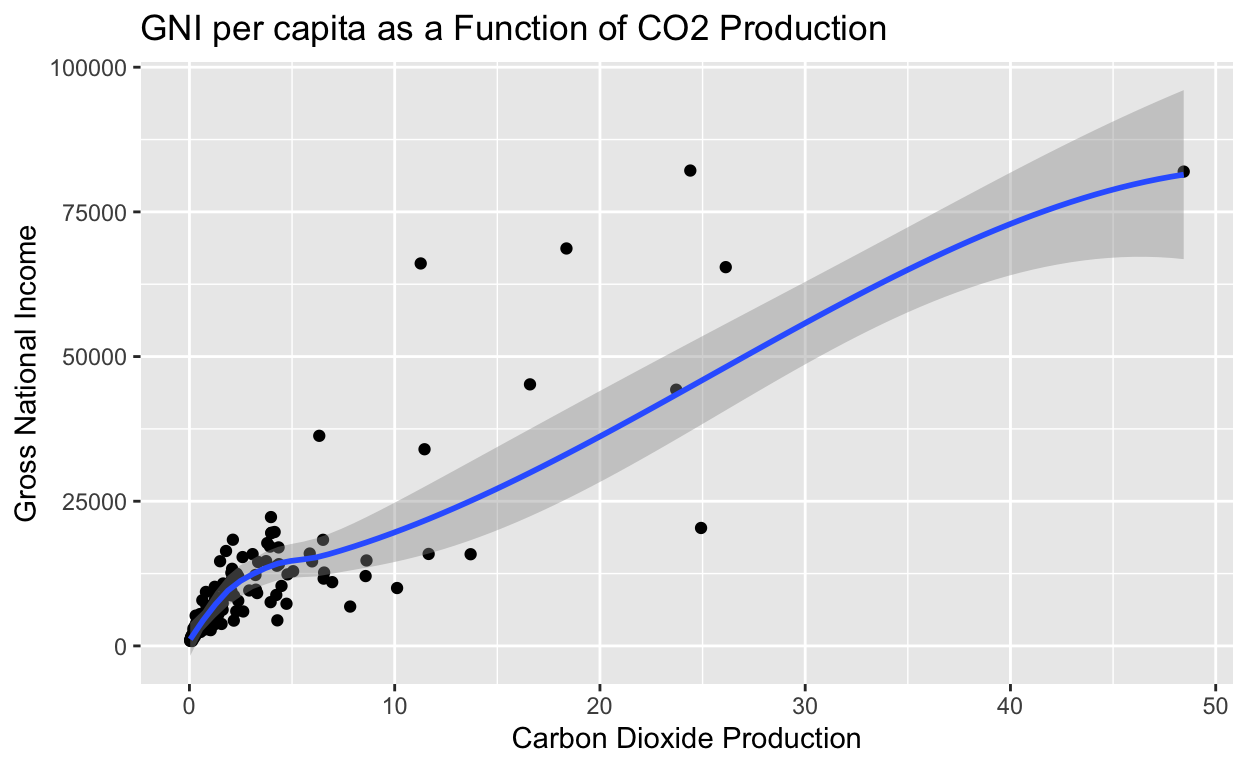
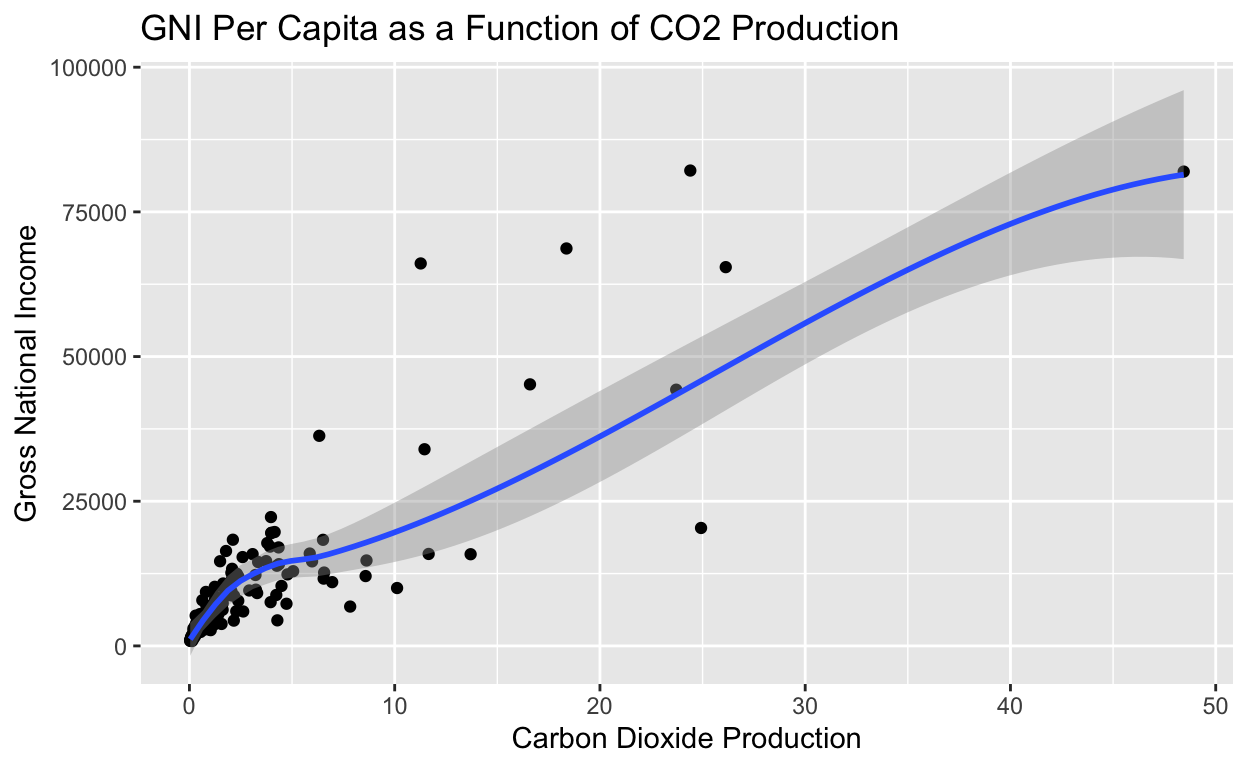
Milestone 4

Changed region(s): [[0.1562, 0.0, 0.7188, 0.0625]]

diff --git a/index.html b/index.html
@@ -115,7 +115,7 @@ code span.wa { color: #5e5e5e; font-style: italic; } /* Warning */
   <!--/radix_placeholder_rmarkdown_metadata-->
   
   <script type="text/json" id="radix-resource-manifest">
-  {"type":"character","attributes":{},"value":["index_files/anchor-4.2.2/anchor.min.js","index_files/bowser-1.9.3/bowser.min.js","index_files/distill-2.2.21/template.v2.js","index_files/figure-html5/unnamed-chunk-2-1.png","index_files/header-attrs-2.17/header-attrs.js","index_files/header-attrs-2.24/header-attrs.js","index_files/jquery-3.6.0/jquery-3.6.0.js","index_files/jquery-3.6.0/jquery-3.6.0.min.js","index_files/jquery-3.6.0/jquery-3.6.0.min.map","index_files/popper-2.6.0/popper.min.js","index_files/tippy-6.2.7/tippy-bundle.umd.min.js","index_files/tippy-6.2.7/tippy-light-border.css","index_files/tippy-6.2.7/tippy.css","index_files/tippy-6.2.7/tippy.umd.min.js","index_files/webcomponents-2.0.0/webcomponents.js"]}
+  {"type":"character","attributes":{},"value":["index_files/anchor-4.2.2/anchor.min.js","index_files/bowser-1.9.3/bowser.min.js","index_files/distill-2.2.21/template.v2.js","index_files/figure-html5/unnamed-chunk-2-1.png","index_files/figure-html5/unnamed-chunk-3-1.png","index_files/figure-html5/unnamed-chunk-3-2.png","index_files/header-attrs-2.17/header-attrs.js","index_files/header-attrs-2.24/header-attrs.js","index_files/jquery-3.6.0/jquery-3.6.0.js","index_files/jquery-3.6.0/jquery-3.6.0.min.js","index_files/jquery-3.6.0/jquery-3.6.0.min.map","index_files/popper-2.6.0/popper.min.js","index_files/tippy-6.2.7/tippy-bundle.umd.min.js","index_files/tippy-6.2.7/tippy-light-border.css","index_files/tippy-6.2.7/tippy.css","index_files/tippy-6.2.7/tippy.umd.min.js","index_files/webcomponents-2.0.0/webcomponents.js"]}
   </script>
   <!--radix_placeholder_navigation_in_header-->
   <!--/radix_placeholder_navigation_in_header-->
@@ -1534,7 +1534,7 @@ code span.wa { color: #5e5e5e; font-style: italic; } /* Warning */
 <pre class="sourceCode r"><code class="sourceCode r"><span><span class='va'>co2_GNI</span> <span class='op'>&lt;-</span> <span class='va'>co2_production</span> <span class='op'>|&gt;</span></span>
 <span>  <span class='fu'><a href='https://dplyr.tidyverse.org/reference/mutate-joins.html'>inner_join</a></span><span class='op'>(</span><span class='va'>GNI_PerCapital</span><span class='op'>)</span></span>
 <span></span>
-<span><span class='va'>co2_GNI</span> <span class='op'>|&gt;</span></span>
+<span><span class='va'>co2_GNI</span> <span class='op'>&lt;-</span> <span class='va'>co2_GNI</span> <span class='op'>|&gt;</span></span>
 <span>  <span class='fu'><a href='https://tidyr.tidyverse.org/reference/pivot_longer.html'>pivot_longer</a></span><span class='op'>(</span></span>
 <span>    cols <span class='op'>=</span> <span class='va'>co2_prod_1990</span><span class='op'>:</span><span class='va'>co2_prod_2021</span>,</span>
 <span>    names_to <span class='op'>=</span> <span class='st'>"co2_peryear"</span>,</span>
@@ -1544,25 +1544,85 @@ code span.wa { color: #5e5e5e; font-style: italic; } /* Warning */
 <span>    cols <span class='op'>=</span> <span class='va'>gnipc_1990</span><span class='op'>:</span><span class='va'>gnipc_2021</span>,</span>
 <span>    names_to <span class='op'>=</span> <span class='st'>"gnipc_peryear"</span>,</span>
 <span>    values_to <span class='op'>=</span> <span class='st'>"gnipc"</span></span>
-<span>  <span class='op'>)</span> <span class='op'>|&gt;</span></span>
+<span>  <span class='op'>)</span></span>
+<span><span class='va'>co2_GNI</span></span></code></pre>
+</div>
+<pre><code># A tibble: 210,944 × 9
+   ISO3  Country     hdicode region hdi_rank_2021 co2_peryear co2_prod
+   &lt;chr&gt; &lt;chr&gt;       &lt;chr&gt;   &lt;chr&gt;          &lt;dbl&gt; &lt;chr&gt;          &lt;dbl&gt;
+ 1 AFG   Afghanistan Low     SA               180 co2_prod_1…    0.210
+ 2 AFG   Afghanistan Low     SA               180 co2_prod_1…    0.210
+ 3 AFG   Afghanistan Low     SA               180 co2_prod_1…    0.210
+ 4 AFG   Afghanistan Low     SA               180 co2_prod_1…    0.210
+ 5 AFG   Afghanistan Low     SA               180 co2_prod_1…    0.210
+ 6 AFG   Afghanistan Low     SA               180 co2_prod_1…    0.210
+ 7 AFG   Afghanistan Low     SA               180 co2_prod_1…    0.210
+ 8 AFG   Afghanistan Low     SA               180 co2_prod_1…    0.210
+ 9 AFG   Afghanistan Low     SA               180 co2_prod_1…    0.210
+10 AFG   Afghanistan Low     SA               180 co2_prod_1…    0.210
+# ℹ 210,934 more rows
+# ℹ 2 more variables: gnipc_peryear &lt;chr&gt;, gnipc &lt;dbl&gt;</code></pre>
+<div class="sourceCode">
+<pre class="sourceCode r"><code class="sourceCode r"><span><span class='va'>co2_GNI</span> <span class='op'>|&gt;</span></span>
 <span>  <span class='fu'><a href='https://rdrr.io/r/stats/na.fail.html'>na.omit</a></span><span class='op'>(</span><span class='op'>)</span> <span class='op'>|&gt;</span></span>
 <span>  <span class='fu'><a href='https://dplyr.tidyverse.org/reference/group_by.html'>group_by</a></span><span class='op'>(</span><span class='va'>Country</span><span class='op'>)</span> <span class='op'>|&gt;</span></span>
 <span>  <span class='fu'><a href='https://dplyr.tidyverse.org/reference/summarise.html'>summarize</a></span><span class='op'>(</span></span>
 <span>    avg_co2 <span class='op'>=</span> <span class='fu'><a href='https://rdrr.io/r/base/mean.html'>mean</a></span><span class='op'>(</span><span class='va'>co2_prod</span><span class='op'>)</span>,</span>
 <span>    avg_gnipc <span class='op'>=</span> <span class='fu'><a href='https://rdrr.io/r/base/mean.html'>mean</a></span><span class='op'>(</span><span class='va'>gnipc</span><span class='op'>)</span></span>
-<span>        <span class='op'>)</span> <span class='op'>|&gt;</span></span>
+<span>  <span class='op'>)</span> <span class='op'>|&gt;</span></span>
 <span>  <span class='fu'><a href='https://ggplot2.tidyverse.org/reference/ggplot.html'>ggplot</a></span><span class='op'>(</span><span class='fu'><a href='https://ggplot2.tidyverse.org/reference/aes.html'>aes</a></span><span class='op'>(</span>x <span class='op'>=</span> <span class='va'>avg_co2</span>, y <span class='op'>=</span> <span class='va'>avg_gnipc</span><span class='op'>)</span><span class='op'>)</span> <span class='op'>+</span></span>
 <span>  <span class='fu'><a href='https://ggplot2.tidyverse.org/reference/geom_point.html'>geom_point</a></span><span class='op'>(</span><span class='op'>)</span> <span class='op'>+</span></span>
 <span>  <span class='fu'><a href='https://ggplot2.tidyverse.org/reference/geom_smooth.html'>geom_smooth</a></span><span class='op'>(</span><span class='op'>)</span> <span class='op'>+</span></span>
 <span>  <span class='fu'><a href='https://ggplot2.tidyverse.org/reference/labs.html'>labs</a></span><span class='op'>(</span></span>
-<span>    title <span class='op'>=</span> <span class='st'>"GNI per capita as a Function of CO2 Production"</span>,</span>
+<span>    title <span class='op'>=</span> <span class='st'>"GNI Per Capita as a Function of CO2 Production"</span>,</span>
 <span>    x <span class='op'>=</span> <span class='st'>"Carbon Dioxide Production"</span>,</span>
 <span>    y <span class='op'>=</span> <span class='st'>"Gross National Income"</span></span>
 <span>  <span class='op'>)</span></span></code></pre>
 </div>
 <p><img src="index_files/figure-html5/unnamed-chunk-2-1.png" width="624" /></p>
 </div>
-<div class="sourceCode" id="cb1"><pre class="sourceCode r distill-force-highlighting-css"><code class="sourceCode r"></code></pre></div>
+<p>As Carbn dioxide production increased, the gross national income in a country also generally increased. This graph demonstrates that countries that have higher gross national incomes also tend to have higher rates of carbon dioxide production. While the majority of the points are clustered near the bottom left of the graph, even there is an even clearer relationship there.</p>
+<div class="layout-chunk" data-layout="l-body">
+<div class="sourceCode">
+<pre class="sourceCode r"><code class="sourceCode r"><span><span class='kw'><a href='https://rdrr.io/r/base/library.html'>library</a></span><span class='op'>(</span><span class='va'><a href='https://github.com/tidymodels/infer'>infer</a></span><span class='op'>)</span></span>
+<span><span class='va'>region</span> <span class='op'>&lt;-</span> <span class='va'>co2_GNI</span> <span class='op'>|&gt;</span></span>
+<span>  <span class='fu'><a href='https://rdrr.io/r/stats/na.fail.html'>na.omit</a></span><span class='op'>(</span><span class='op'>)</span> <span class='op'>|&gt;</span></span>
+<span>  <span class='fu'><a href='https://dplyr.tidyverse.org/reference/group_by.html'>group_by</a></span><span class='op'>(</span><span class='va'>region</span>, <span class='va'>co2_peryear</span>, <span class='va'>gnipc_peryear</span><span class='op'>)</span> <span class='op'>|&gt;</span></span>
+<span>  <span class='fu'><a href='https://dplyr.tidyverse.org/reference/summarise.html'>summarize</a></span><span class='op'>(</span>avg_co2_prod <span class='op'>=</span> <span class='fu'><a href='https://rdrr.io/r/base/mean.html'>mean</a></span><span class='op'>(</span><span class='va'>co2_prod</span><span class='op'>)</span>,</span>
+<span>            avg_gnipc <span class='op'>=</span> <span class='fu'><a href='https://rdrr.io/r/base/mean.html'>mean</a></span><span class='op'>(</span><span class='va'>gnipc</span><span class='op'>)</span><span class='op'>)</span></span>
+<span></span>
+<span><span class='va'>region_co2</span> <span class='op'>&lt;-</span> <span class='va'>region</span> <span class='op'>|&gt;</span></span>
+<span>  <span class='fu'><a href='https://ggplot2.tidyverse.org/reference/ggplot.html'>ggplot</a></span><span class='op'>(</span><span class='fu'><a href='https://ggplot2.tidyverse.org/reference/aes.html'>aes</a></span><span class='op'>(</span>x <span class='op'>=</span> <span class='va'>co2_peryear</span>, y <span class='op'>=</span> <span class='va'>avg_co2_prod</span><span class='op'>)</span><span class='op'>)</span> <span class='op'>+</span></span>
+<span>  <span class='fu'><a href='https://ggplot2.tidyverse.org/reference/geom_point.html'>geom_point</a></span><span class='op'>(</span><span class='op'>)</span> <span class='op'>+</span></span>
+<span>  <span class='fu'><a href='https://ggplot2.tidyverse.org/reference/geom_smooth.html'>geom_smooth</a></span><span class='op'>(</span><span class='op'>)</span> <span class='op'>+</span></span>
+<span>  <span class='fu'><a href='https://ggplot2.tidyverse.org/reference/facet_wrap.html'>facet_wrap</a></span><span class='op'>(</span><span class='op'>~</span> <span class='va'>region</span><span class='op'>)</span></span>
+<span></span>
+<span><span class='va'>region_co2</span></span></code></pre>
+</div>
+<img src="index_files/figure-html5/unnamed-chunk-3-1.png" width="624" />
+<div class="sourceCode">
+<pre class="sourceCode r"><code class="sourceCode r"><span><span class='va'>region_GNI</span> <span class='op'>&lt;-</span> <span class='va'>region</span> <span class='op'>|&gt;</span> </span>
+<span>  <span class='fu'><a href='https://ggplot2.tidyverse.org/reference/ggplot.html'>ggplot</a></span><span class='op'>(</span><span class='fu'><a href='https://ggplot2.tidyverse.org/reference/aes.html'>aes</a></span><span class='op'>(</span>x <span class='op'>=</span> <span class='va'>gnipc_peryear</span>, y <span class='op'>=</span> <span class='va'>avg_gnipc</span><span class='op'>)</span><span class='op'>)</span> <span class='op'>+</span></span>
+<span>  <span class='fu'><a href='https://ggplot2.tidyverse.org/reference/geom_point.html'>geom_point</a></span><span class='op'>(</span><span class='op'>)</span> <span class='op'>+</span></span>
+<span>  <span class='fu'><a href='https://ggplot2.tidyverse.org/reference/geom_smooth.html'>geom_smooth</a></span><span class='op'>(</span><span class='op'>)</span> <span class='op'>+</span></span>
+<span>  <span class='fu'><a href='https://ggplot2.tidyverse.org/reference/facet_wrap.html'>facet_wrap</a></span><span class='op'>(</span><span class='op'>~</span> <span class='va'>region</span><span class='op'>)</span></span>
+<span>  </span>
+<span><span class='va'>region_GNI</span></span></code></pre>
+</div>
+<img src="index_files/figure-html5/unnamed-chunk-3-2.png" width="624" />
+<div class="sourceCode">
+<pre class="sourceCode r"><code class="sourceCode r"><span><span class='fu'><a href='https://rdrr.io/r/stats/lm.html'>lm</a></span><span class='op'>(</span><span class='va'>co2_prod</span> <span class='op'>~</span> <span class='va'>gnipc</span>, data <span class='op'>=</span> <span class='va'>co2_GNI</span><span class='op'>)</span></span></code></pre>
+</div>
+<pre><code>
+Call:
+lm(formula = co2_prod ~ gnipc, data = co2_GNI)
+
+Coefficients:
+(Intercept)        gnipc  
+  0.7120969    0.0002335  </code></pre>
+</div>
+<p>With this pair of visualizations, it is immediately visible that the rise and fall of GNI and CO2 are directly related. By analyzing the regression between the two, we can see that the relationship between the two is that there is a base carbon emission of 0.712, but as gnipc increases by 1, carbon dioxide increases by 0.000236.</p>
+<div class="sourceCode" id="cb3"><pre class="sourceCode r distill-force-highlighting-css"><code class="sourceCode r"></code></pre></div>
 <!--radix_placeholder_article_footer-->
 <!--/radix_placeholder_article_footer-->
 </div>
